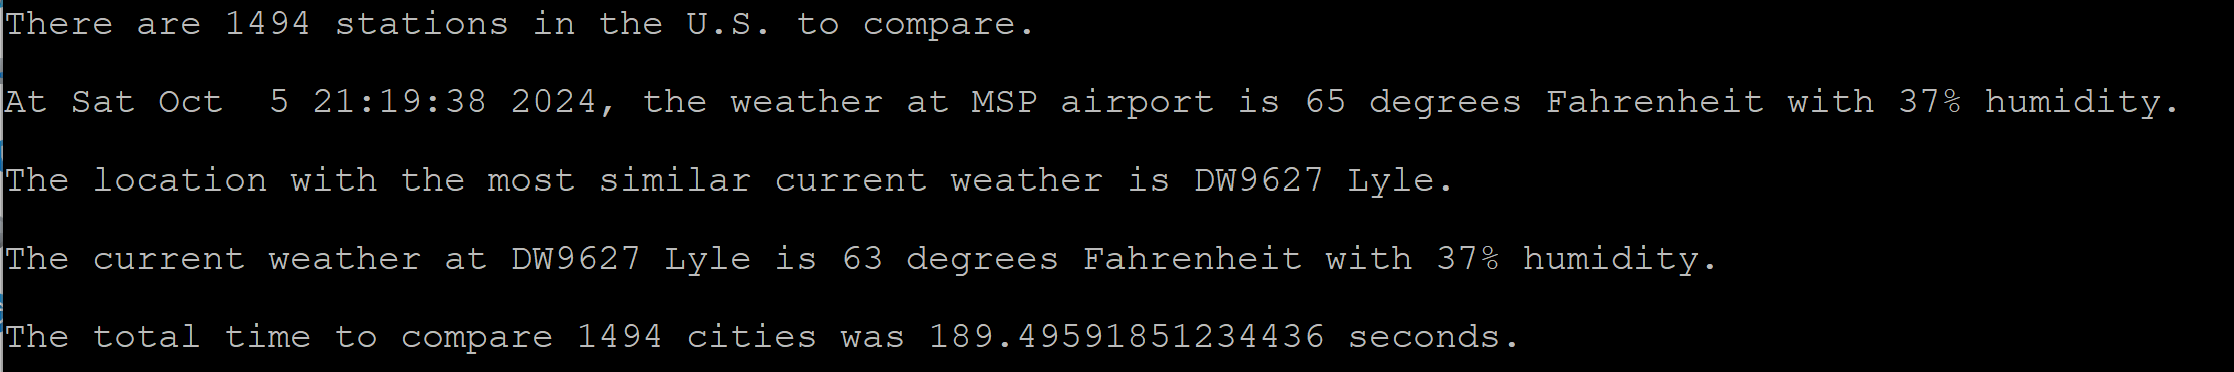
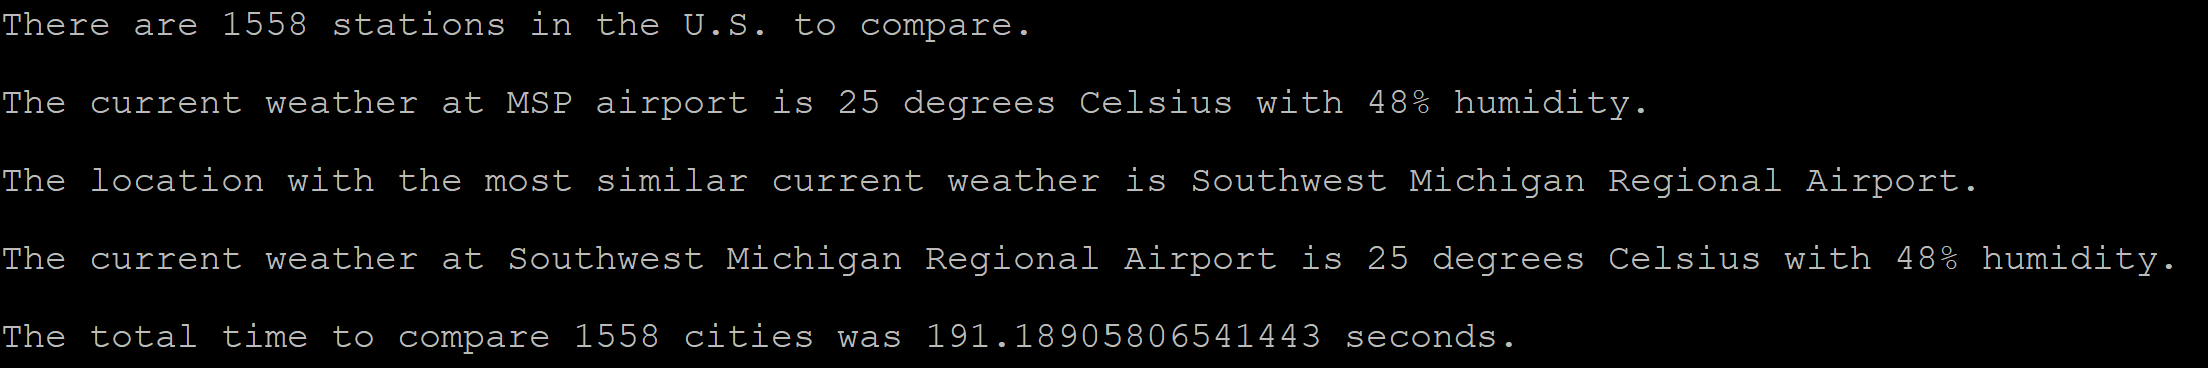
Final updates for MVP

diff --git a/mvp1/mvp1.py b/mvp1/mvp1.py
@@ -12,7 +12,7 @@ current_time = time.asctime()
 
 '''
 Section 1
-Get the current temperature at the MSP airport and print this temp to the terminal.
+Get the current temperature and relative humidity at the MSP airport.
 '''
 mpls = requests.get('https://api.weather.gov/stations/KMSP/observations/latest')
 mpls = mpls.json()
@@ -83,34 +83,24 @@ for station in stationWeatherList:
 # sort the list of weather stations so that the most similar station is at the front of the list
 stationWeatherList.sort()
 
-# '''
-# Section 4
-# Find the Observation Station that has a temperature most similar to MSP airport.
-# '''
-# closestTemp = 1000
-# closestTempDiff = 1000
-# closestStation = ''
-# for station in stationWeatherList:
-#     # calculate absolute difference in temp
-#     tempDiff = mplsTemp - station[2]
-#     if abs(tempDiff) < abs(closestTempDiff):
-#         closestStation = station[1]
-#         closestTemp = station[2]
-#         closestTempDiff = tempDiff
         
 '''
 Section 5
 Find the name of the location where the Observation Station is located.
+Print out the current weather at MSP airport.
+Print out the other Observation Station's name and its current weather.
 '''
+
 closestStation = stationWeatherList[0]
 closestStationID = closestStation[1]
-closestStationTemp = closestStation[2] * 1.8 + 32       # convert to Fahrenheit
+closestStationTemp = closestStation[2] * 1.8 + 32       # convert Celsius to Fahrenheit
 closestStationHumidity = closestStation[3]
-
-mplsTemp = mplsTemp * 1.8 + 32      # convert to Fahrenheit
 
 closestStationName = requests.get(f'https://api.weather.gov/stations/{closestStationID}').json()
 closestStationName = closestStationName['properties']['name']
+
+mplsTemp = mplsTemp * 1.8 + 32      # convert Celsius to Fahrenheit
+
 print(f'At {current_time}, the weather at MSP airport is {round(mplsTemp)} degrees Fahrenheit with {round(mplsHumidity)}% humidity.\n')
 print(f'The location with the most similar current weather is {closestStationName}.\n')
 print(f'The current weather at {closestStationName} is {round(closestStationTemp)} degrees Fahrenheit with {round(closestStationHumidity)}% humidity.\n')

diff --git a/mvp1/README.md b/mvp1/README.md
@@ -21,7 +21,7 @@ Humidity receives only half the weight that air temperature does because I belie
 
 ## The Program
 `mvp1.py` features all the code for this MVP. It is divided into multiple sections.
-1. The first block of code gathers the current weather conditions in Minneapolis and prints the current temperature to the terminal.
+1. The first block of code gathers the current weather conditions in Minneapolis.
 2. The second block finds all the NOAA-defined zones in the U.S. and the weather Observation Stations that are in those zones.
 3. The third block gathers the current weather conditions from each Observation Station.
 4. The fourth block finds the Observation Station that has the most similar weather compared to Minneapolis.
